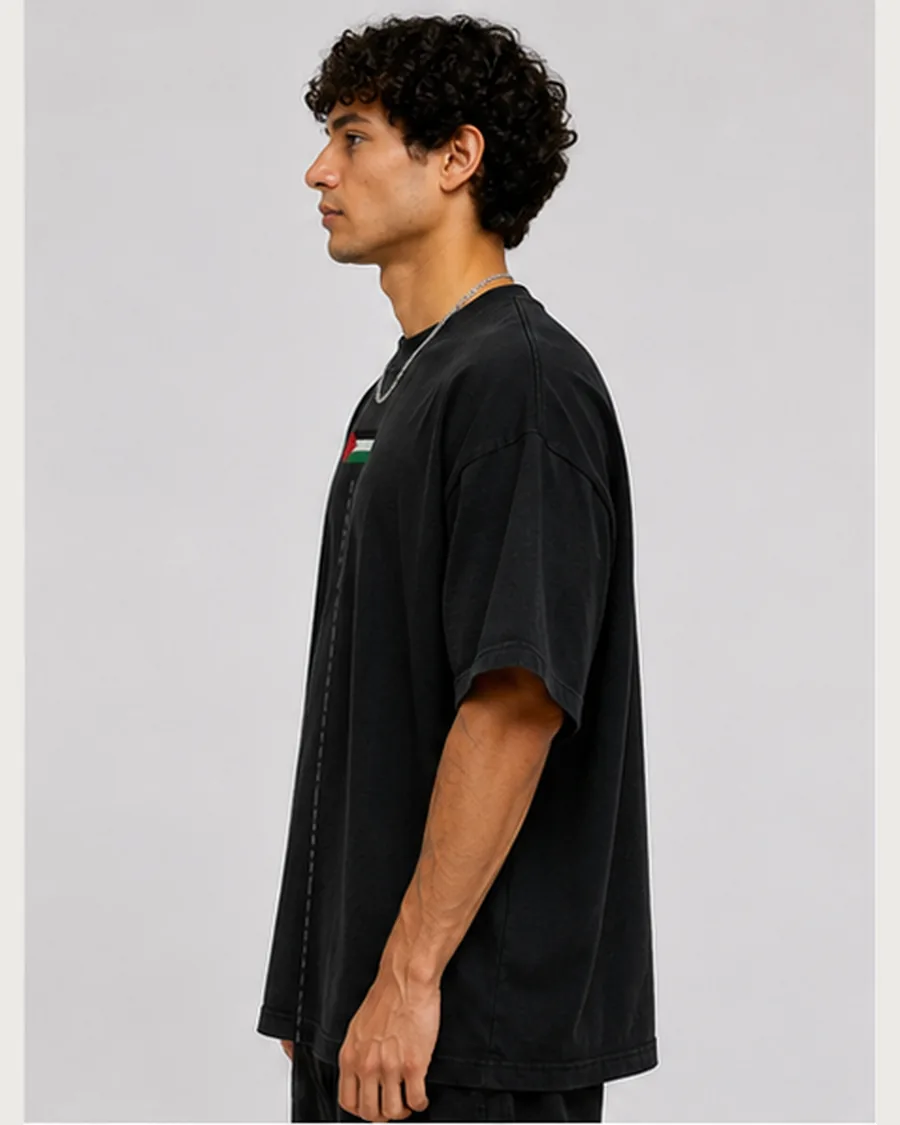
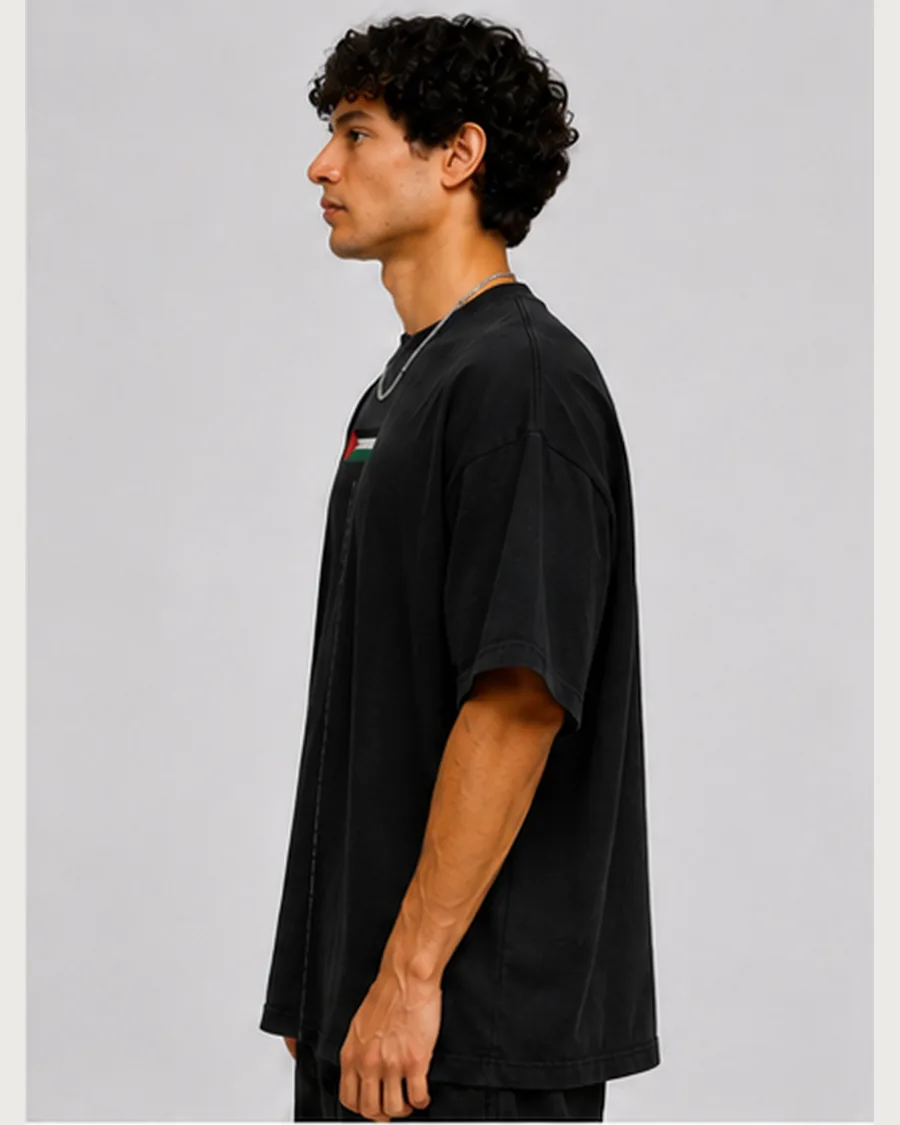
fix(free-palestine): reemplaza las fotos de modelo (lámina 4.5 nueva)
Juan cambió MATERIAL/Camisas/Coleccion Fundadores/4.5.png. Reprocesadas las 6
fotos de modelo (hombre/mujer × frontal/lateral/espalda) con
scripts/ingest_camisas.py. La prenda sola no cambia. Verificado en la ficha:
recortes en orden, sin imágenes rotas.

SW cache → v9: las fotos conservan el nombre con contenido nuevo, así que sin
subir versión el celular seguiría mostrando las viejas.

diff --git a/public/sw.js b/public/sw.js
@@ -9,8 +9,9 @@
    v5: pieza 16 (Guardián Navy) + tema nuevo + privacidad + compra unificada.
    v6: pieza 17 (Green Afro Tiki) + color de filtro Celeste.
    v7: Guns & Roses con prenda sola por corte (oversize H / crop M).
-   v8: pieza 18 (Eternal Beauty) + música al primer gesto también en celular. */
-const CACHE = "babuinos-v8";
+   v8: pieza 18 (Eternal Beauty) + música al primer gesto también en celular.
+   v9: fotos de modelo nuevas de Free Palestine (mismo nombre, contenido nuevo). */
+const CACHE = "babuinos-v9";
 const OFFLINE_URLS = ["/", "/icons/icon-192.png", "/icons/icon-512.png"];
 
 // Pre-cache a minimal app shell so the home opens even without connection.
